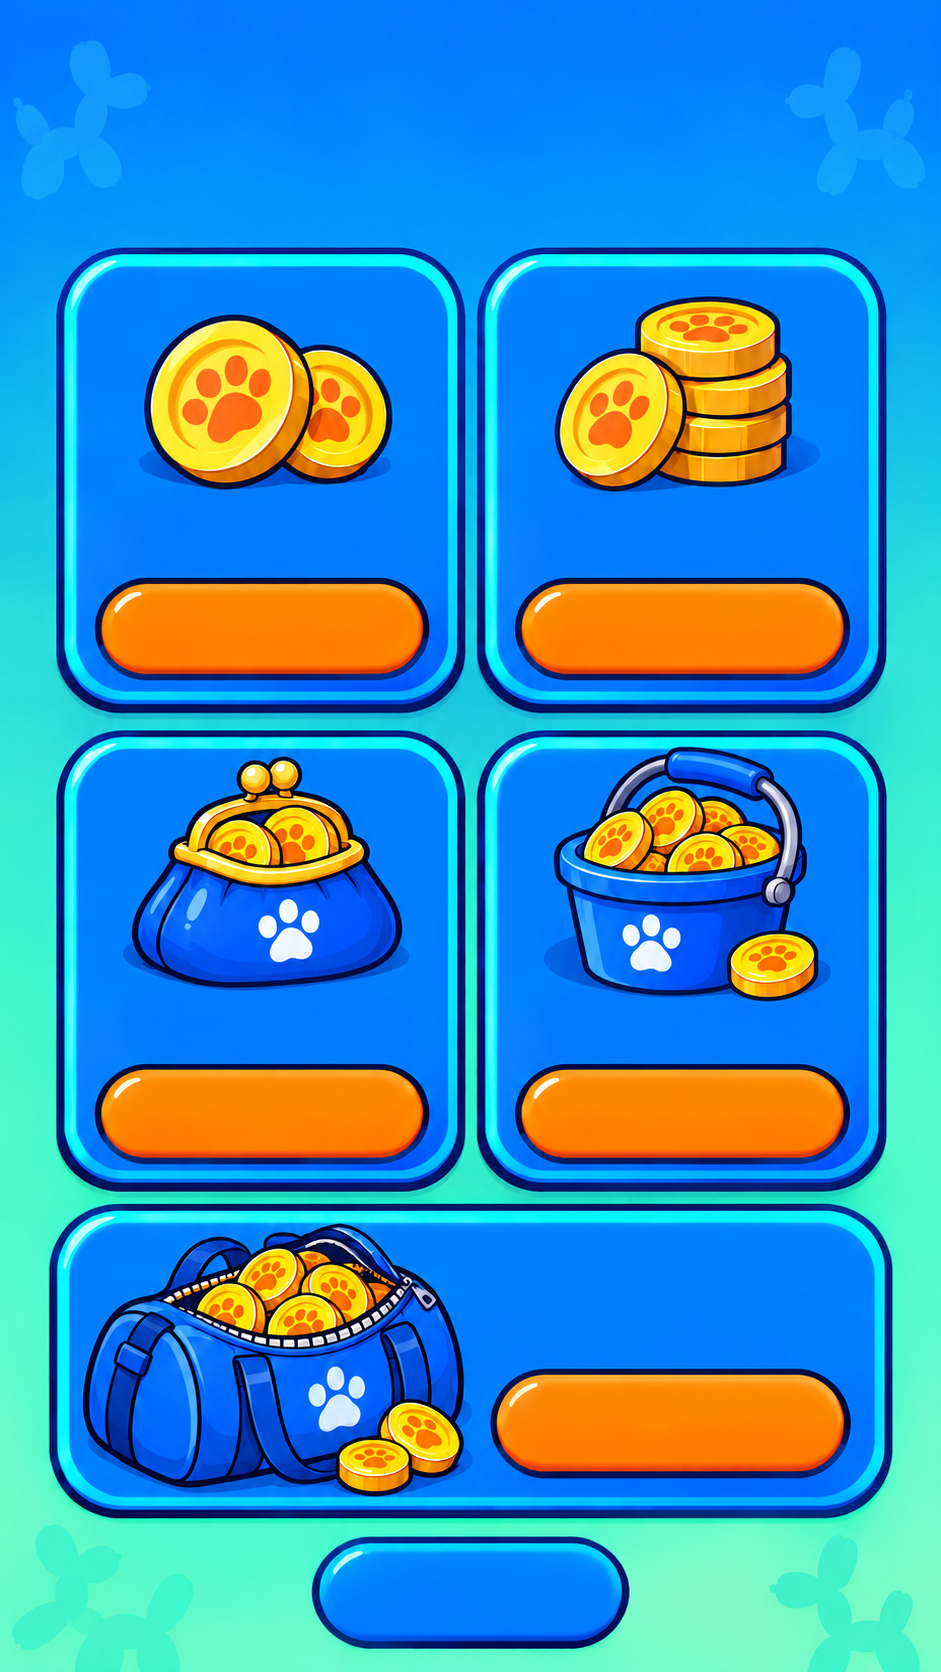
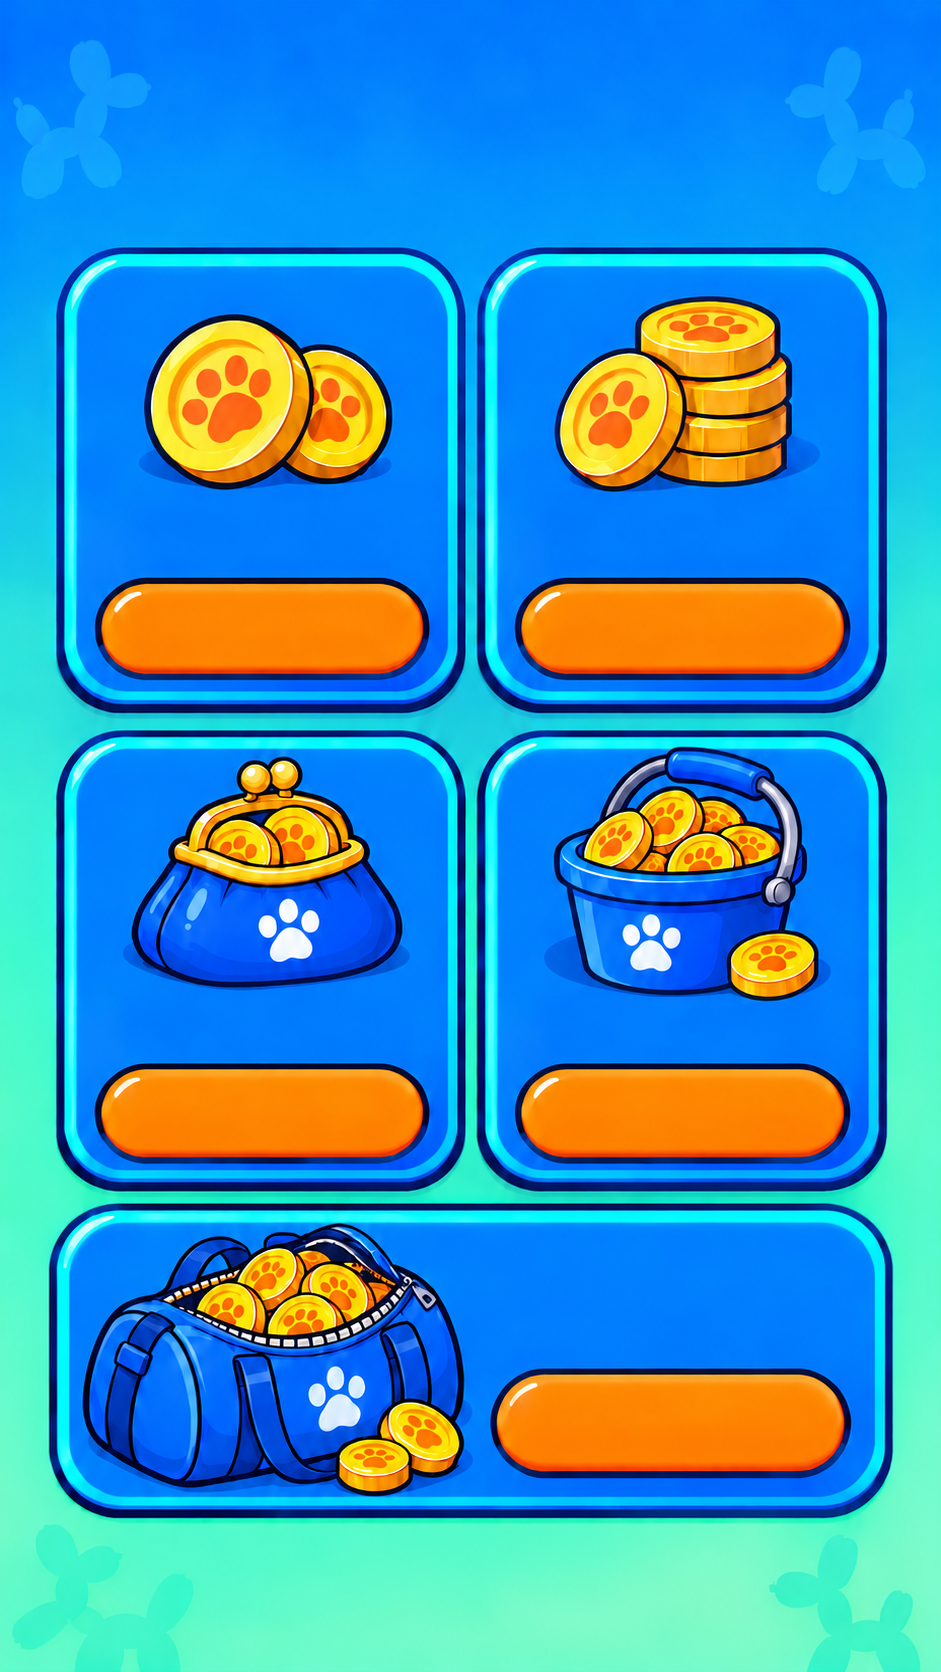
Restore legacy shop Back buttons and clip price press feedback
Replace both authored shop footer buttons with the shared blue menu button and remove their baked-in backgrounds. Render price button overlays as inset capsule meshes so blue atlas corners never become dark rectangles during presses. Use gentler 14 percent dimming for shop prices while preserving other buttons' feedback. Extend editor checks for legacy Back artwork, clipped geometry and pressed/reset colors on both pages.

diff --git a/Assets/Tests/Editor/BalloonDogEconomyTests.cs b/Assets/Tests/Editor/BalloonDogEconomyTests.cs
@@ -568,9 +568,45 @@ public sealed class BalloonDogEconomyTests
             Transform button = layout.Find(currency + "Pack" + (i + 1));
             Component price = button.Find("PressContent/PackPrice").GetComponent(textType);
             Assert.That((string)textType.GetProperty("text").GetValue(price), Is.EqualTo(prices[i]));
-            Assert.That(button.Find("PressContent").GetComponent<Image>().sprite, Is.Not.Null);
-            Assert.That(button.GetComponent(Runtime("BalloonDogDirectPressButton")), Is.Not.Null);
+            Image surface = button.Find("PressContent").GetComponent<Image>();
+            Assert.That(surface.sprite, Is.Not.Null);
+            Assert.That(surface.GetType(), Is.EqualTo(Runtime("BalloonDogShopPriceFace")));
+            Component press = button.GetComponent(Runtime("BalloonDogDirectPressButton"));
+            Assert.That(press, Is.Not.Null);
+            using (var vertices = new UnityEngine.UI.VertexHelper())
+            {
+                surface.GetType().GetMethod("OnPopulateMesh", Private).Invoke(surface, new object[] { vertices });
+                var mesh = new Mesh();
+                try
+                {
+                    vertices.FillMesh(mesh);
+                    Rect face = (Rect)surface.GetType().GetProperty("FaceBounds").GetValue(surface);
+                    Rect full = surface.rectTransform.rect;
+                    Assert.That(face.width, Is.LessThan(full.width));
+                    Assert.That(face.height, Is.LessThan(full.height));
+                    float radius = face.height * .5f;
+                    foreach (Vector3 vertex in mesh.vertices)
+                    {
+                        float x = Mathf.Max(0f, Mathf.Abs(vertex.x - face.center.x) - (face.width * .5f - radius));
+                        float y = Mathf.Abs(vertex.y - face.center.y);
+                        Assert.That(x * x + y * y, Is.LessThanOrEqualTo(radius * radius + .1f),
+                            "The tinted mesh must stay inside the orange capsule, excluding atlas corners.");
+                    }
+                }
+                finally { UnityEngine.Object.DestroyImmediate(mesh); }
+            }
+            Set(press, "depth", 1f);
+            Call(press, "Apply");
+            Assert.That(surface.color.r, Is.EqualTo(.86f).Within(.001f));
+            Set(press, "depth", 0f);
+            Call(press, "Apply");
+            Assert.That(surface.color, Is.EqualTo(Color.white));
         }
+        Image back = layout.Find("BackToExtras").GetComponent<Image>();
+        Sprite originalBlue = (Sprite)Runtime("BalloonDogMenuArtwork").GetMethod("Get")
+            .Invoke(null, new object[] { "butonmavi" });
+        Assert.That(back.sprite, Is.SameAs(originalBlue));
+        Assert.That(back.GetComponent(Runtime("BalloonDogDirectPressButton")), Is.Null);
         RectTransform left = (RectTransform)layout.Find(currency + "Pack1");
         RectTransform right = (RectTransform)layout.Find(currency + "Pack2");
         Assert.That(left.anchoredPosition.x, Is.LessThan(0f));

diff --git a/Assets/Scripts/BalloonDogShopPriceFace.cs b/Assets/Scripts/BalloonDogShopPriceFace.cs
@@ -1,0 +1,47 @@
+using UnityEngine;
+using UnityEngine.Sprites;
+using UnityEngine.UI;
+
+/// <summary>Draws only the orange capsule face from an opaque shop atlas crop.</summary>
+public sealed class BalloonDogShopPriceFace : Image
+{
+    public Rect FaceBounds
+    {
+        get
+        {
+            Rect r = GetPixelAdjustedRect();
+            // Leave the original rim stationary and exclude blue atlas corners.
+            return Rect.MinMaxRect(r.xMin + r.width * .025f, r.yMin + r.height * .10f,
+                r.xMax - r.width * .025f, r.yMax - r.height * .10f);
+        }
+    }
+
+    protected override void OnPopulateMesh(VertexHelper mesh)
+    {
+        mesh.Clear();
+        if (sprite == null) return;
+        Rect full = GetPixelAdjustedRect();
+        if (full.width <= 0f || full.height <= 0f) return;
+        Rect face = FaceBounds;
+        float radius = Mathf.Min(face.width, face.height) * .5f;
+        Vector4 uv = DataUtility.GetOuterUV(sprite);
+        AddVertex(mesh, face.center, full, uv);
+        const int segments = 64;
+        for (int i = 0; i <= segments; i++)
+        {
+            float angle = i * Mathf.PI * 2f / segments;
+            Vector2 direction = new Vector2(Mathf.Cos(angle), Mathf.Sin(angle));
+            Vector2 corner = new Vector2(direction.x >= 0f ? face.xMax - radius : face.xMin + radius,
+                direction.y >= 0f ? face.yMax - radius : face.yMin + radius);
+            AddVertex(mesh, corner + direction * radius, full, uv);
+            if (i > 0) mesh.AddTriangle(0, i, i + 1);
+        }
+    }
+
+    private void AddVertex(VertexHelper mesh, Vector2 point, Rect full, Vector4 uv)
+    {
+        Vector2 fraction = new Vector2((point.x - full.xMin) / full.width, (point.y - full.yMin) / full.height);
+        mesh.AddVert(new Vector3(point.x, point.y, 0f), color,
+            new Vector2(Mathf.Lerp(uv.x, uv.z, fraction.x), Mathf.Lerp(uv.y, uv.w, fraction.y)));
+    }
+}

diff --git a/Assets/Scripts/BalloonDogModernUI.cs b/Assets/Scripts/BalloonDogModernUI.cs
@@ -1095,8 +1095,8 @@ public sealed class BalloonDogModernUI : MonoBehaviour
             CreateCurrencyArtworkButton(layout, currency + "Pack" + (i + 1), art, priceFaces[i], prices[i], 70f,
                 () => ShowToast(quantity + " " + currency + " - PURCHASE COMING SOON"));
         }
-        CreateCurrencyArtworkButton(layout, "BackToExtras", art, new Rect(309f, 1535f, 326f, 118f),
-            "BACK", 88f, ReturnFromCurrencyPacks);
+        CreateMarketArtworkButton(layout, "BackToExtras", "BACK",
+            new Vector2(0f, -870f), new Vector2(530f, 150f), ReturnFromCurrencyPacks, 61f);
         return screen;
     }
 
@@ -1126,7 +1126,8 @@ public sealed class BalloonDogModernUI : MonoBehaviour
         SetRect(hit, CurrencyPoint(sourceRect.center), size);
         RectTransform face = CreateRect("PressContent", hit);
         SetRect(face, Vector2.zero, size);
-        Image image = face.gameObject.AddComponent<Image>();
+        // Only the orange pill is drawn; atlas padding must never become a tinted rectangle.
+        Image image = face.gameObject.AddComponent<BalloonDogShopPriceFace>();
         string key = art + "#" + name;
         if (!ResourceSprites.TryGetValue(key, out Sprite sprite) || sprite == null)
         {
@@ -1149,8 +1150,9 @@ public sealed class BalloonDogModernUI : MonoBehaviour
         button.targetGraphic = image;
         button.navigation = new Navigation { mode = Navigation.Mode.None };
         button.onClick.AddListener(action);
-        hit.gameObject.AddComponent<BalloonDogDirectPressButton>()
-            .Configure(button, face, new Vector2(.15f, .49f), true);
+        BalloonDogDirectPressButton press = hit.gameObject.AddComponent<BalloonDogDirectPressButton>();
+        press.SetPressDimming(.14f);
+        press.Configure(button, face, new Vector2(.15f, .49f), true);
     }
 
     private void BindCurrencyCounters()

diff --git a/Assets/Scripts/BalloonDogDirectPressButton.cs b/Assets/Scripts/BalloonDogDirectPressButton.cs
@@ -22,6 +22,9 @@ public sealed class BalloonDogDirectPressButton : MonoBehaviour
     private bool waitForRelease;
     private float depth;
     private float visibleUntil;
+    private float pressDimming = .27f;
+
+    public void SetPressDimming(float amount) { pressDimming = Mathf.Clamp01(amount); }
 
     public void Configure(Button button, RectTransform visualRoot, Vector2 radius, bool inset)
     {
@@ -135,7 +138,7 @@ public sealed class BalloonDogDirectPressButton : MonoBehaviour
         visual.localScale = Vector3.Scale(baseScale, new Vector3(1f - (insetFace ? .027f : .04f) * depth,
             1f - (insetFace ? .06f : .04f) * depth, 1f));
         visual.anchoredPosition = basePosition + Vector2.down * ((insetFace ? 3.5f : 5f) * depth);
-        float brightness = 1f - .27f * depth;
+        float brightness = 1f - pressDimming * depth;
         for (int i = 0; i < graphics.Length; i++)
         {
             if (graphics[i] == null) continue;
